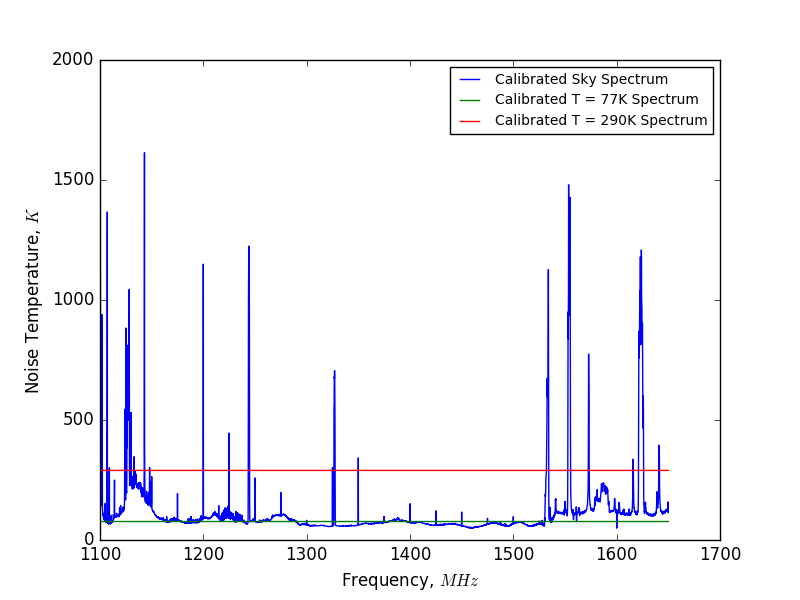
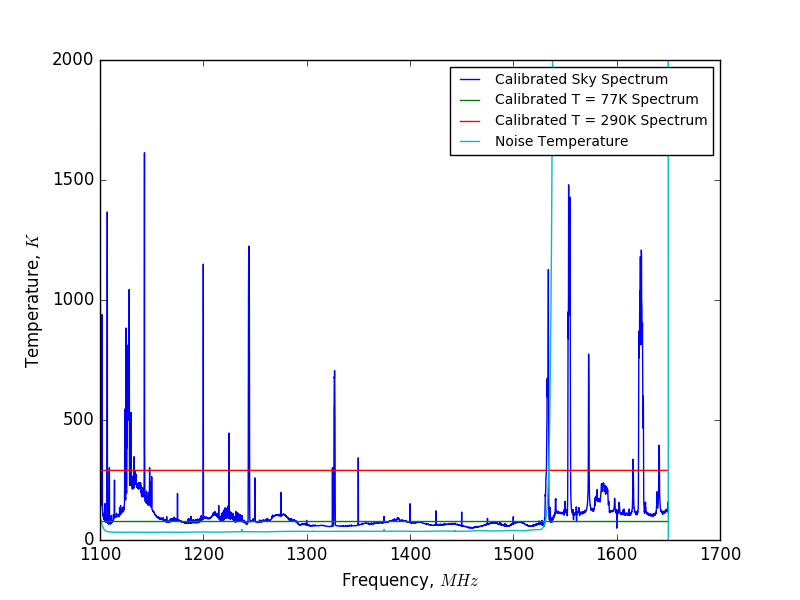
added log space and noise temperature

diff --git a/logbook/postings/20170906_sans_RFI_calibrated_spectrum/index.md b/logbook/postings/20170906_sans_RFI_calibrated_spectrum/index.md
@@ -50,3 +50,6 @@ spectra at our two temperatures.
 
 I believe we are seeing low sky temperatures (often below the liquid nitrogen
 temperature @ 77K), with sharp narrow RFI peaks. 
+
+Here is the same plot, viewed in log space.
+![Log](PC_Cal_Spec_Log.png)
